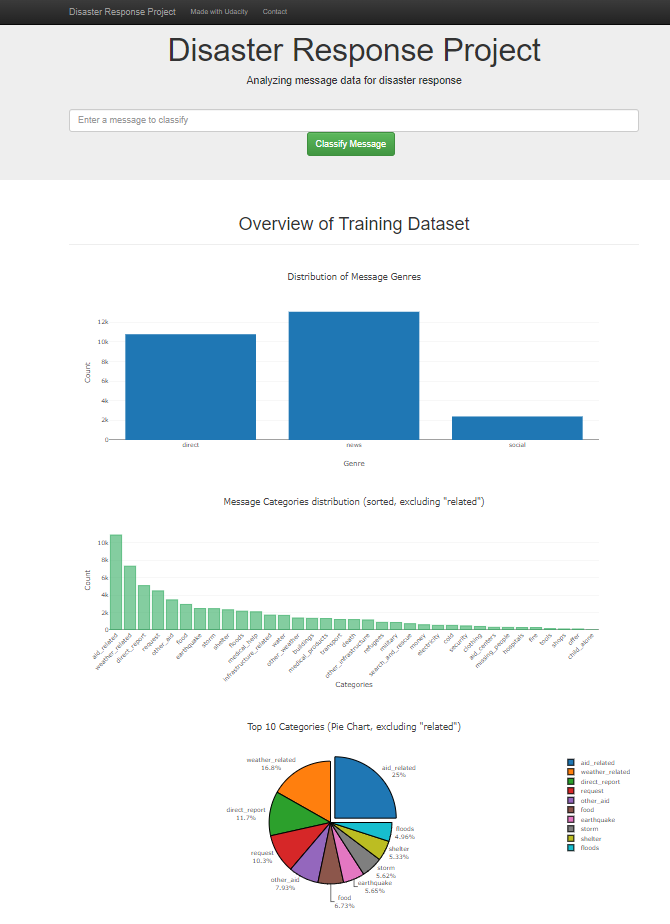
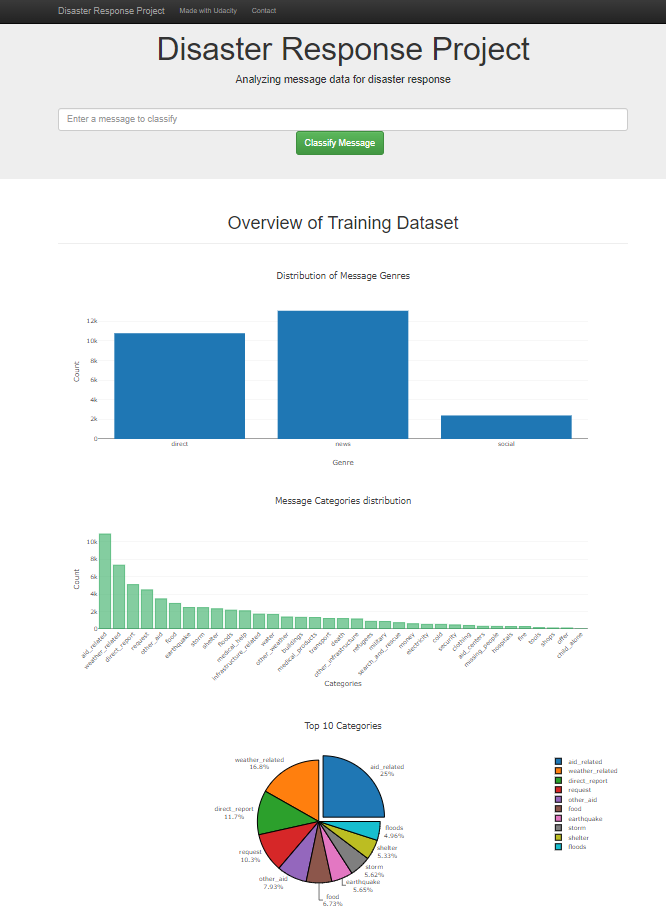
new

diff --git a/app/run.py b/app/run.py
@@ -91,7 +91,7 @@ def index():
         ],
 
         'layout': {
-            'title': 'Message Categories distribution (sorted)',
+            'title': 'Message Categories distribution',
             'yaxis': {
                 'title': "Count"
             },
@@ -124,7 +124,7 @@ def index():
         ],
 
         'layout': {
-            'title': 'Top 10 Categories (Pie Chart)',
+            'title': 'Top 10 Categories',
         }
     }
 ]    
